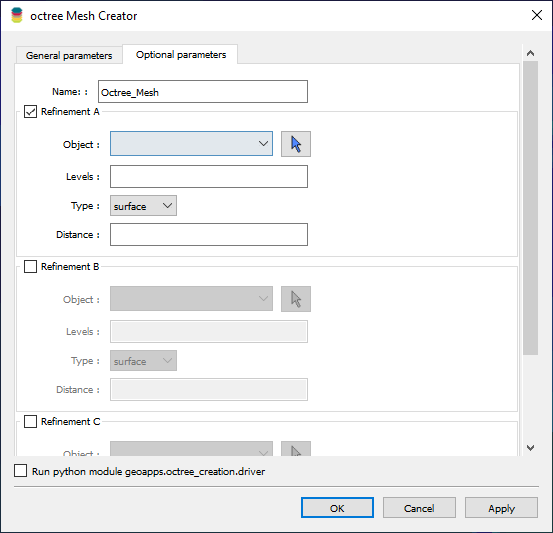
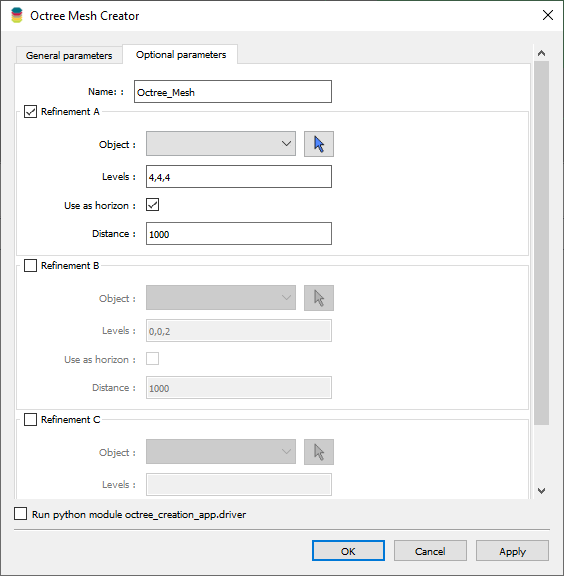
Update docs

diff --git a/docs/source/methodology.rst b/docs/source/methodology.rst
@@ -31,7 +31,7 @@ method to create the base mesh (single large box). The following general paramet
 outer limits of the mesh.
 
 
-.. figure:: /images/extent_parameters.png
+.. figure:: /images/ui_json_general.png
     :width: 800
 
 - **Core hull extent**:
@@ -59,6 +59,28 @@ outer limits of the mesh.
         Setting the *vertical padding = 0* will place the top of the mesh at the highest elevation of **Core hull extent** object.
         This is useful for creating a mesh that minimizes the amount of air cells.
 
+- **Diagonal Balance**:
+
+    If checked, the mesh is refined such that any pair of cells sharing a node can increase in size by at most one octree level.
+    The figure below demonstrates the effect of this option on the refinement of a mesh.
+
+    .. list-table::
+       :widths: 25 25
+       :header-rows: 1
+
+       * - Balanced
+         - Not balanced
+       * - .. figure:: ./images/diag_balanced.png
+                :align: center
+                :width: 300
+         - .. figure:: ./images/no_diag_balanced.png
+                :align: center
+                :width: 300
+
+    Note that the mesh without diagonal balance is allowed to go from octree ``Level 1`` to ``Level 3`` across cells sharing a corner.
+    This would result in overall fewer cells in the mesh but can decrease the accuracy of the forward simulation when
+    solving partial-differential equations. The diagonal balancing is required for compatibility with UBC-GIF software.
+
 .. _mimimum_refinement:
 
 - **Minimum Refinement**:
@@ -70,7 +92,9 @@ outer limits of the mesh.
 
         h \times 2^{level - 1}
 
-    where *h* is the *core cell size* in a given direction.
+    where *h* is the *core cell size* in a given direction. This option is useful to ensure that the mesh does not become too large
+    away from the core region.
+
 
 Example
 ^^^^^^^
@@ -186,8 +210,8 @@ For every refinement strategy, the user must specify the following parameters:
     .. math::
         [1^{st}, 2^{nd}, 3^{rd}, ...]
 
-- [Optional] **Define as layers**:
-    If checked, the object is used as an horizon with the `refine_tree_from_surface <refine_surface>`_ method.
+- [Optional] **Use as horizon**:
+    If checked, the object is used as an horizon with the `refine_tree_from_surface <refine_surface>`_ method instead of the default method.
     The vertices of the object are converted to a Delaunay surface, which is then used to refine the mesh as
     layers of cells below the surface.
 
@@ -267,12 +291,15 @@ refinement is continuous along the faces of the triangulated surface.
 
 .. _refine_surface:
 
-Refine by layers
-^^^^^^^^^^^^^^^^
+Refine as horizon
+^^^^^^^^^^^^^^^^^
 
 This method refines an octree mesh along a surface layer, or horizon. It is a faster
 implementation then the `Refine by surface <_refine_triangulation>`_ method, but it assumes the surface
-to be mostly horizontal (z-normal only). It is especially useful for refining meshes along topography.
+to be mostly horizontal (z-normal only). The surface creation relies on the ``scipy.spatial.Delaunay`` triangulation.
+This strategy is useful for refining the mesh on data collected along topography,
+such as gravity surveys. The additional parameter ``max_distance`` allows to limit the extent of refinement and avoid
+over-refinement in regions where the input points are sparse.
 
 .. automethod:: octree_creation_app.driver.OctreeDriver.refine_tree_from_surface
 
@@ -283,9 +310,10 @@ Example
 In the example below, the mesh is refined along horizons defined by the vertices of Points object.
 The parameters are as follows:
 
-.. image:: images/octree_layer.png
+.. image:: images/octree_layer_max_dist.png
   :width: 800
   :alt: surface
 
 This results in a mesh that has 4 layers of cells at 25 m, followed by 4 cells at 50 m below the input vertices.
-Note that the refinement follows the change in elevation of the input vertices.
+Note that the refinement follows the change in elevation of the input vertices as defined by an underlying Delaunay triangulation.
+Beyond the ``max_distance`` of 30 m, the refinement is allowed to expand in size.
